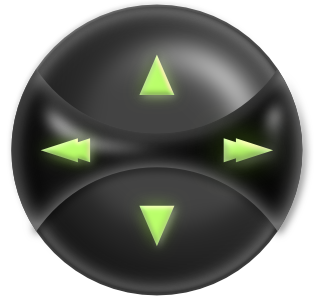
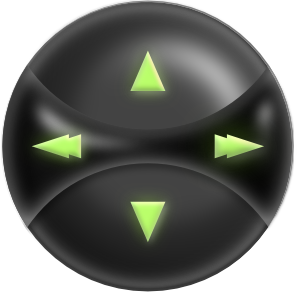
all buttons in place

diff --git a/arpwiremediacenter/src/App.js b/arpwiremediacenter/src/App.js
@@ -152,6 +152,15 @@ function App() {
           <img id="clock" className="navbuttons" src="/media player components/clock-2.png" alt="Button Image" />
           <img id="ba" className="navbuttons" src="/media player components/ba-2.png" alt="Button Image" />
           <img id="rel" className="navbuttons" src="/media player components/rel-2.png" alt="Button Image" />
+
+          <img id="on" className="roundButtons" src="/media player components/on.png" alt="Button Image" />
+
+          <img id="skipL" className="skipButtons" onClick={prevTrack} src="/media player components/skipL.png" alt="Button Image" />
+          <img id="skipR" className="skipButtons" onClick={nextTrack} src="/media player components/skipR.png" alt="Button Image" />
+          <img id="topS" className="skipButtons" src="/media player components/topS.png" alt="Button Image" />
+          <img id="bottomS" className="skipButtons" src="/media player components/bottomS.png" alt="Button Image" />
+
+
           <p className="file-name">{currentFile.name}</p>
           {currentFile.type.startsWith("video") ? (
               <video ref={mediaRef} src={currentFile.src} className="video" onClick={togglePlayPause} />
@@ -160,14 +169,8 @@ function App() {
           )}
           <div className="controls">
             <div className="controls-inner">
-              <button className="skip" onClick={prevTrack}>
-                <img src="/media player components/back-2.png" alt="Previous" style={{ position: 'absolute', top: '10px', left: '10px' }} />
-              </button>
               <button className="play-pause" onClick={togglePlayPause}>
                 {isPlaying ? "❚❚" : "▶"}
-              </button>
-              <button className="skip" onClick={nextTrack}>
-                <img src="/media player components/back-2.png" alt="Next" style={{ position: 'absolute', top: '10px', right: '10px' }} />
               </button>
             </div>
             <div

diff --git a/arpwiremediacenter/src/App.css b/arpwiremediacenter/src/App.css
@@ -290,3 +290,53 @@
 
 
 
+.roundButtons {
+  scale: .50;
+  z-index: 5;
+  position: fixed;
+  background: solid black;
+  box-shadow: inset 0 0 0 5px rgb(26, 26, 26);
+  border-radius: 100%;
+  border: 1px solid black;
+  transition: .25s;
+}
+
+#on{
+  bottom: -15px;
+  left: -30px;
+}
+
+
+.skipButtons {
+  scale: .50;
+  z-index: 5;
+  position: fixed;
+  background: solid black;
+  transition: .25s;
+}
+
+.skipButtons:hover {
+  box-shadow: 0 0 10px #00f, 0 0 20px #00f;
+}
+
+
+
+#skipL{
+  bottom: 55px;
+  right: 85px;
+}
+
+#skipR{
+  bottom: 53px;
+  right: 10px;
+}
+
+#topS{
+  bottom: 115px;
+  right: 2px;
+}
+
+#bottomS{
+  bottom: 32px;
+  right: 1px;
+}
